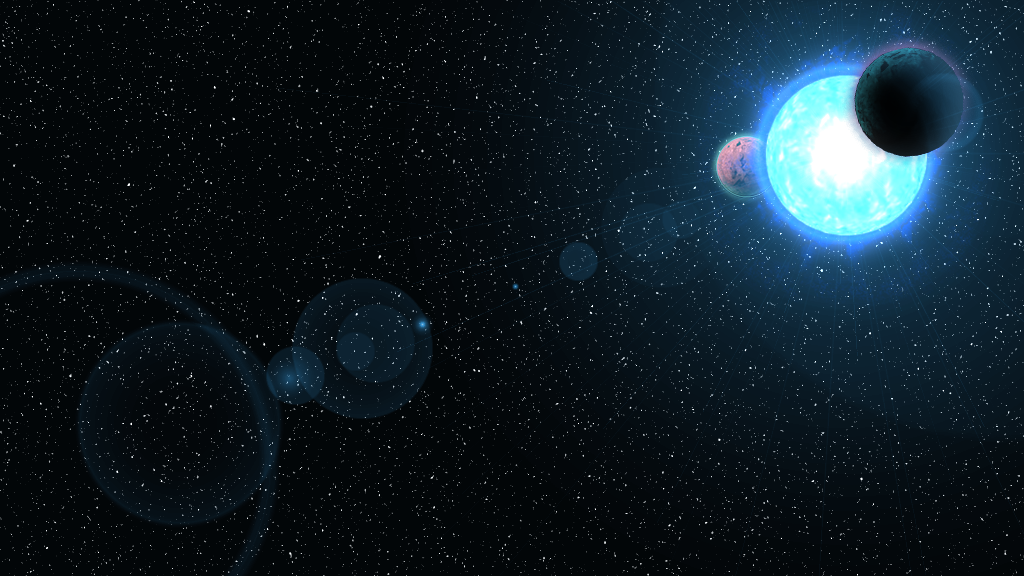
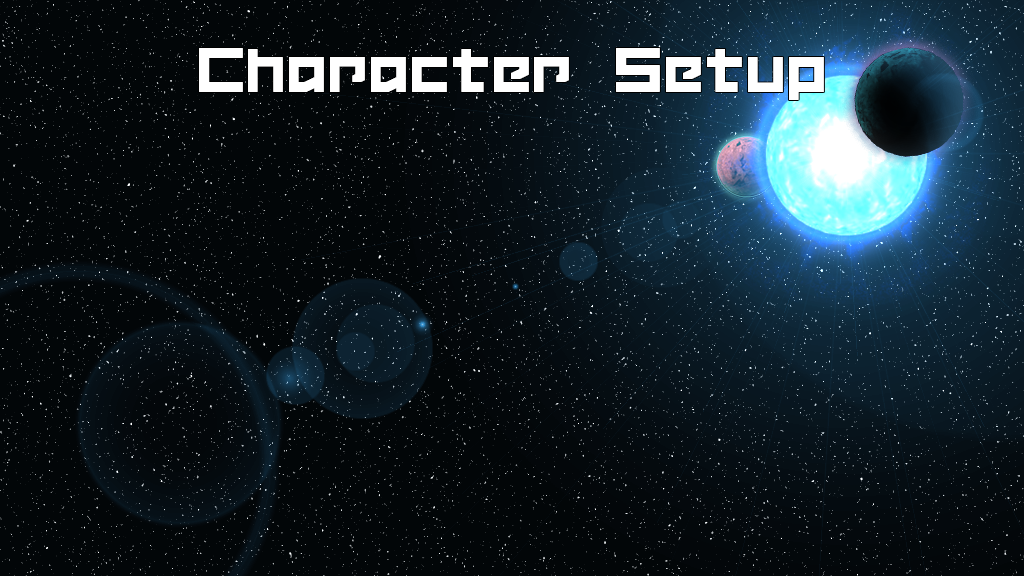
Designed Character Config screen

Changed region(s): [[0.1875, 0.0625, 0.5625, 0.1875], [0.5938, 0.0625, 0.8125, 0.1875]]

diff --git a/SpaceTrader/src/spacetrader/SpaceTraderStylesheet.css b/SpaceTrader/src/spacetrader/SpaceTraderStylesheet.css
@@ -11,6 +11,40 @@ and open the template in the editor.
     -fx-background-color: black;
 }
 
+.textfield {
+    -fx-font-family: "LVDC Common2";
+    -fx-font-size: 30px;
+    -fx-text-fill: white;
+    -fx-prompt-text-fill: white;
+    -fx-highlight-text-fill: black;
+    -fx-background-color: linear-gradient(to bottom, rgba(30,150,206,0.9) 0%,rgba(24,106,168,0.9) 50%,rgba(29,152,205,0.9) 100%);
+    -fx-effect: innershadow(three-pass-box , rgba(0,0,0,0.7), 5, 0.0 , 0 , 0);
+}
+
+.progressbar .bar {
+    -fx-background-color: #0099cc;
+}
+
+.slider .thumb {
+    -fx-background-image: url('../visuals/Slider_Thumb.png');
+    -fx-background-size: stretch;
+}
+
+.slider .track {
+    -fx-background-color: white;
+}
+
+.label {
+    -fx-font-family: "LVDC Common2";
+    -fx-font-size: 30px;
+    -fx-text-fill: white;
+}
+
+.gridpane {
+    -fx-background-image: url('../visuals/GridLayoutBG.png');
+    -fx-background-size: stretch;
+}
+
 #CharConfig {
     -fx-background-image: url('../visuals/CharacterSelectionBG.png');
 }
